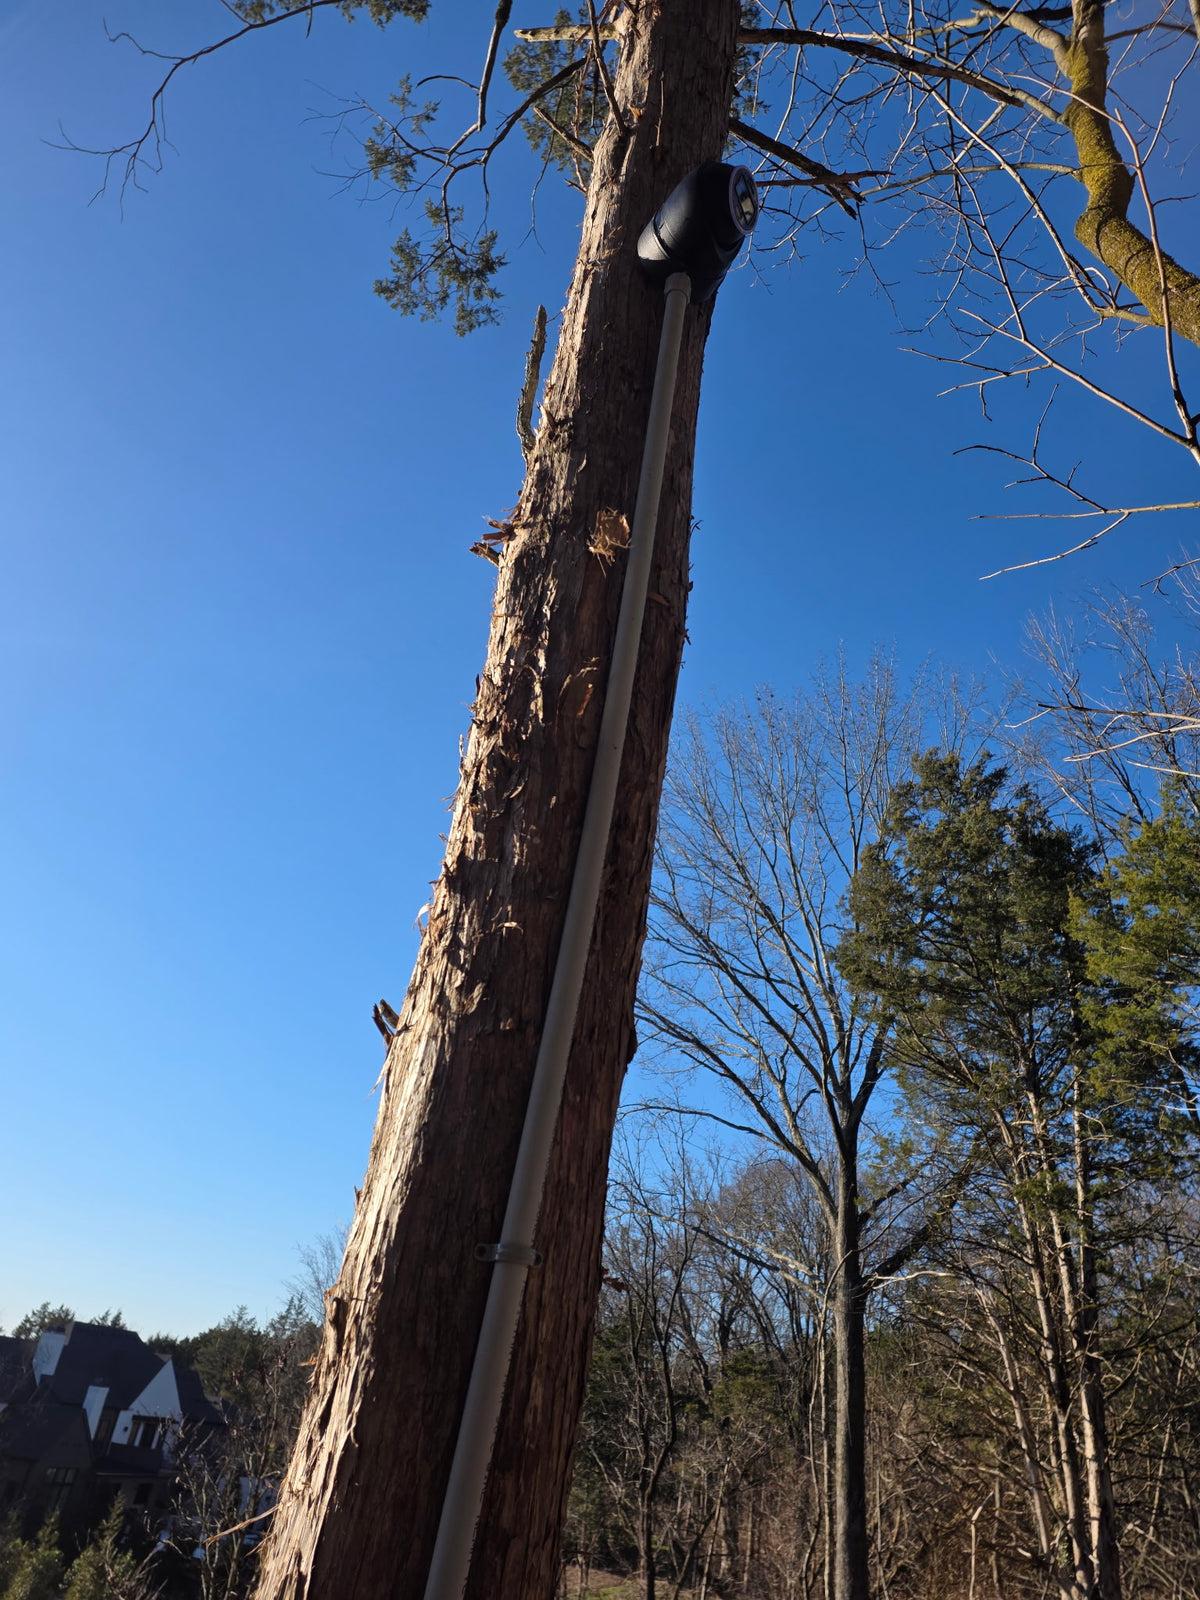
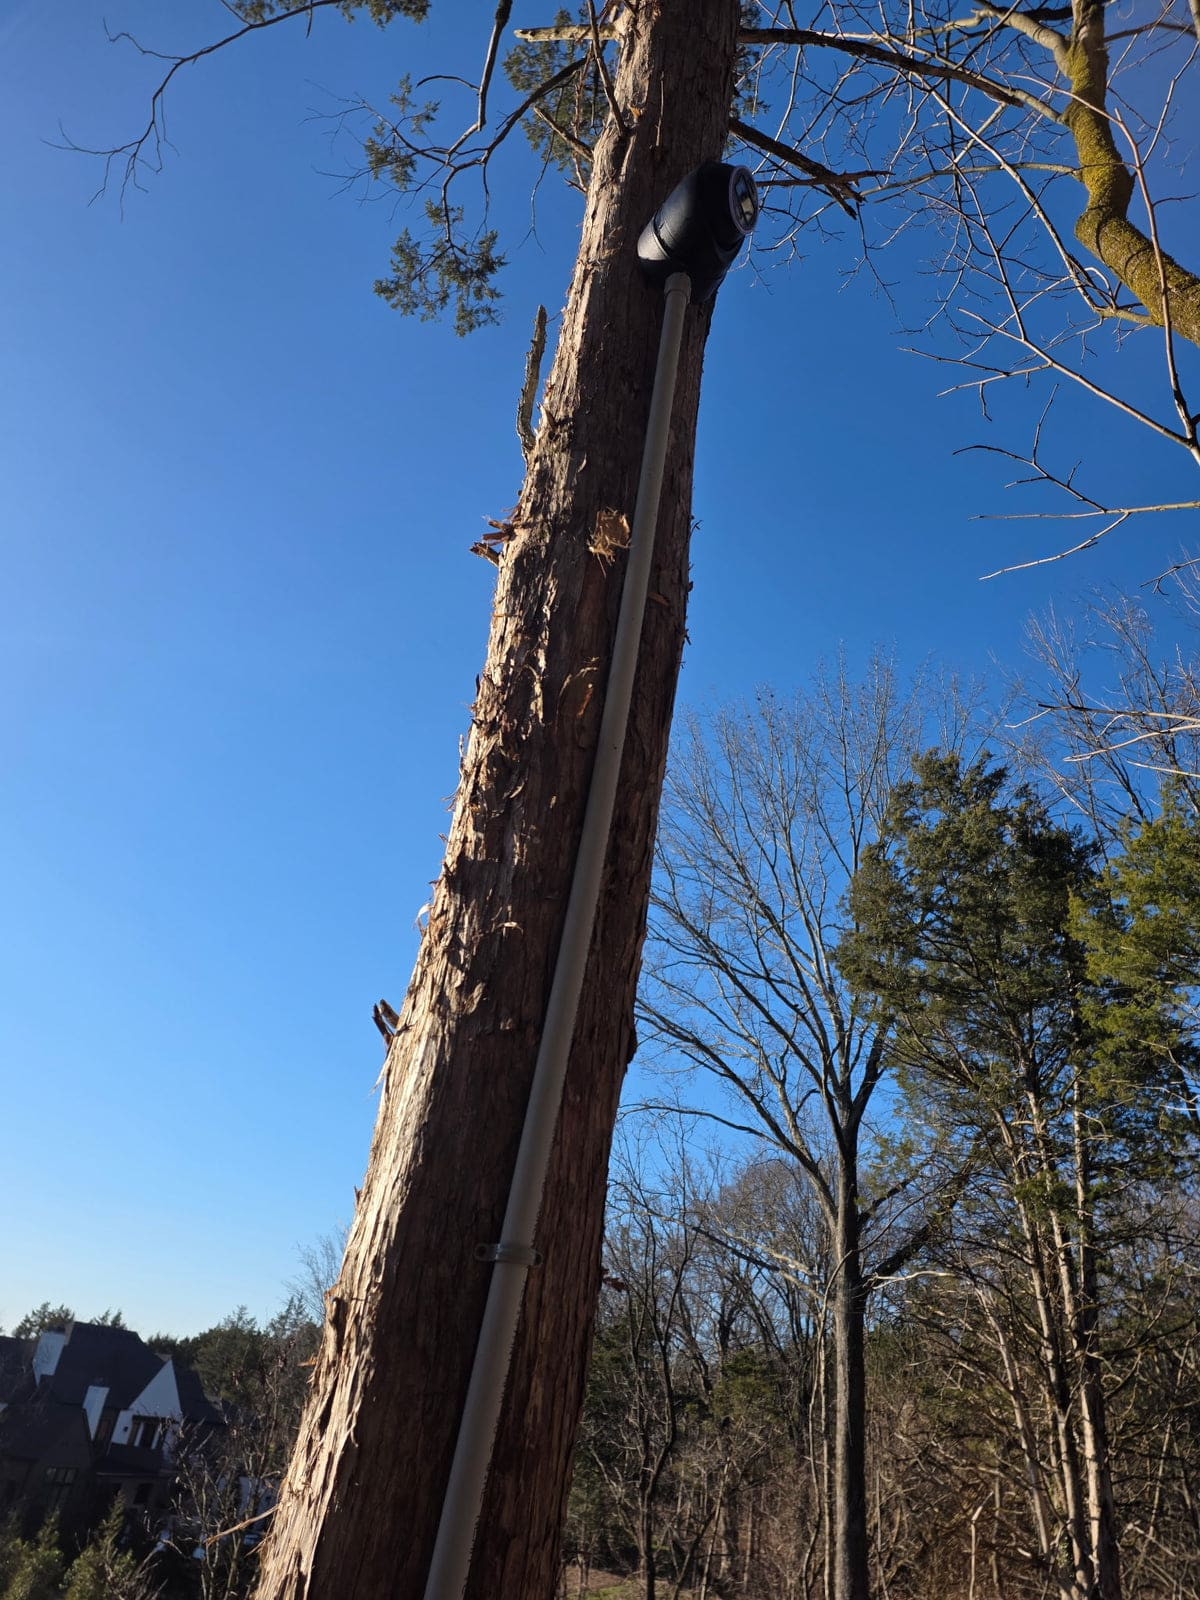
Perf + SEO: compress images (18MB -> 4MB), add sitemap.xml, robots.txt, custom 404 page

diff --git a/404.html b/404.html
@@ -1,0 +1,83 @@
+<!DOCTYPE html>
+<html lang="en">
+<head>
+  <meta charset="UTF-8" />
+  <meta name="viewport" content="width=device-width, initial-scale=1.0" />
+  <meta name="robots" content="noindex" />
+  <title>Page Not Found — Ravelo AV Tech</title>
+  <link rel="icon" type="image/png" href="/uploads/favicon.png" />
+  <link rel="preconnect" href="https://fonts.googleapis.com" />
+  <link rel="preconnect" href="https://fonts.gstatic.com" crossorigin />
+  <link rel="stylesheet" href="https://fonts.googleapis.com/css2?family=Figtree:wght@300;400;600&family=DM+Serif+Display&display=swap" />
+  <style>
+    * { box-sizing: border-box; margin: 0; padding: 0; }
+    body {
+      min-height: 100vh;
+      background: #071e28;
+      display: flex;
+      flex-direction: column;
+      align-items: center;
+      justify-content: center;
+      text-align: center;
+      padding: 24px;
+      font-family: 'Figtree', sans-serif;
+    }
+    .logo img { height: 44px; width: auto; margin-bottom: 48px; }
+    .code {
+      font-family: 'DM Serif Display', serif;
+      font-size: clamp(6rem, 18vw, 11rem);
+      line-height: 1;
+      color: #0c2d3a;
+      -webkit-text-stroke: 2px rgba(130,160,204,0.45);
+      margin-bottom: 8px;
+    }
+    h1 {
+      font-family: 'DM Serif Display', serif;
+      font-weight: 400;
+      font-size: clamp(1.5rem, 4vw, 2.2rem);
+      color: #fff;
+      margin-bottom: 14px;
+    }
+    p {
+      color: rgba(255,255,255,0.5);
+      font-weight: 300;
+      font-size: 1rem;
+      line-height: 1.7;
+      max-width: 420px;
+      margin-bottom: 36px;
+    }
+    .actions { display: flex; gap: 14px; flex-wrap: wrap; justify-content: center; }
+    .btn {
+      display: inline-block;
+      padding: 14px 32px;
+      font-size: 13px;
+      letter-spacing: 0.12em;
+      text-transform: uppercase;
+      text-decoration: none;
+      border-radius: 4px;
+      transition: all 0.25s;
+    }
+    .btn-primary { background: #82A0CC; color: #071e28; font-weight: 600; }
+    .btn-primary:hover { background: #9ab5dd; }
+    .btn-ghost { color: rgba(255,255,255,0.7); border: 1px solid rgba(130,160,204,0.3); }
+    .btn-ghost:hover { color: #fff; border-color: rgba(130,160,204,0.6); }
+    .phone {
+      margin-top: 48px;
+      color: rgba(255,255,255,0.35);
+      font-size: 13px;
+    }
+    .phone a { color: #82A0CC; text-decoration: none; }
+  </style>
+</head>
+<body>
+  <a class="logo" href="/"><img src="/uploads/logo.png" alt="Ravelo AV Tech" /></a>
+  <div class="code">404</div>
+  <h1>This page doesn't exist</h1>
+  <p>The page you're looking for was moved, deleted, or never existed. Let's get you back on track.</p>
+  <div class="actions">
+    <a class="btn btn-primary" href="/">Back to home</a>
+    <a class="btn btn-ghost" href="/about.html">Contact us</a>
+  </div>
+  <p class="phone">Need help? Call or text <a href="tel:+16159620401">(615) 962-0401</a></p>
+</body>
+</html>

diff --git a/index.html b/index.html
@@ -307,7 +307,7 @@
 
   <!-- Data store (hidden) -->
   <div id="gallery-container">
-    <div class="gal-item" data-category="security"><img loading="lazy" decoding="async" src="/uploads/20260514_174640.jpg" alt="Security" /><div class="gal-overlay"><span>Security</span></div></div>
+    <div class="gal-item" data-category="security"><img loading="lazy" decoding="async" src="/uploads/gallery-security-20260514.jpg" alt="Security" /><div class="gal-overlay"><span>Security</span></div></div>
     <div class="gal-item" data-category="av"><img loading="lazy" decoding="async" src="/uploads/gallery-network-1.jpg" alt="Home Theater" /><div class="gal-overlay"><span>Home Theater</span></div></div>
     <div class="gal-item" data-category="av"><img loading="lazy" decoding="async" src="/uploads/gallery-theater-2.jpg" alt="Home Theater" /><div class="gal-overlay"><span>Home Theater</span></div></div>
     <div class="gal-item" data-category="wiring"><img loading="lazy" decoding="async" src="/uploads/gallery-security-1.jpg" alt="Wiring" /><div class="gal-overlay"><span>Wiring</span></div></div>
